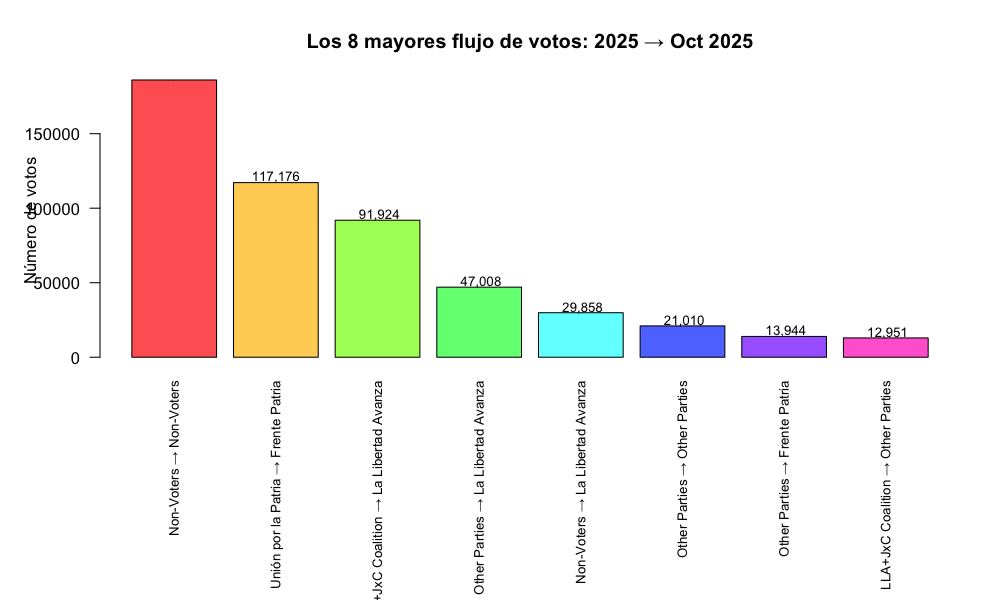
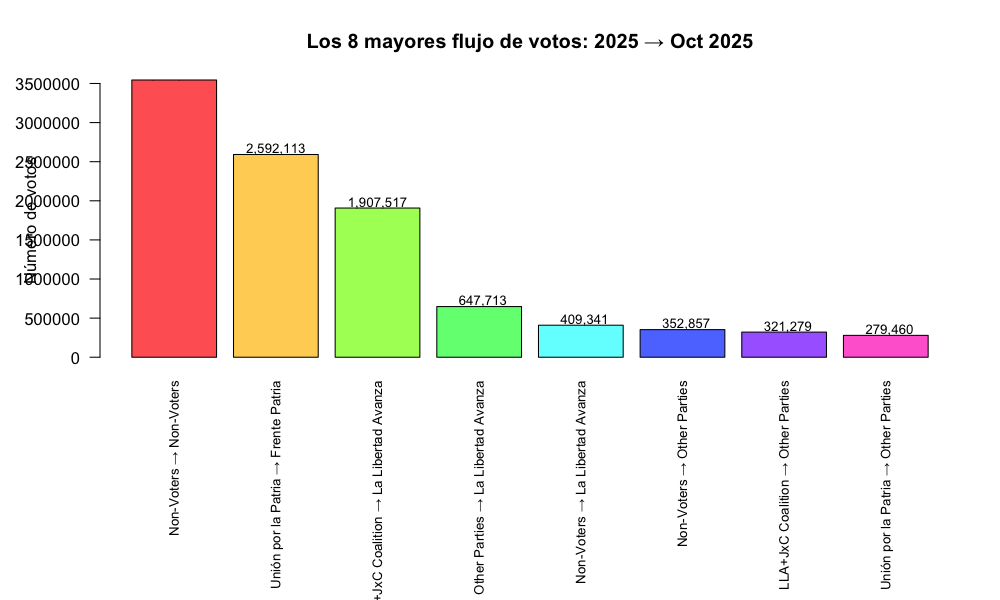
nuevo

diff --git a/vote_transfers_sankey_oct2025.html b/vote_transfers_sankey_oct2025.html
@@ -16,9 +16,9 @@
     <h4 style="color: #7F8C8D; font-family: &#39;Arial&#39;, sans-serif; font-weight: normal;">Estimated Voter Transitions Based on Ecological Inference</h4>
     <p style="color: #95A5A6; font-family: &#39;Arial&#39;, sans-serif; font-size: 12px;">Based on analysis of 5 electoral circuits.  Flow thickness represents number of voters (minimum 1,000 shown).</p>
   </div>
-  <div id="htmlwidget-3c0ee5408616df070d14" style="width:1000px;height:600px;" class="sankeyNetwork html-widget"></div>
+  <div id="htmlwidget-8db29779a9f483359151" style="width:1000px;height:600px;" class="sankeyNetwork html-widget"></div>
 </div>
-<script type="application/json" data-for="htmlwidget-3c0ee5408616df070d14">{"x":{"links":{"source":[0,0,0,0,0,1,1,1,1,2,2,2,2,2,3,3,3,3,3,4,4,4,4,4],"target":[5,6,7,8,9,5,6,7,8,5,6,7,8,9,5,6,7,8,9,5,6,7,8,9],"value":[3197,12727,8104,8590,3486,3902,91924,8450,12951,2091,29858,186023,10084,9920,5425,47008,10893,21010,13944,2979,12284,9040,12810,117176]},"nodes":{"name":["Blank Votes","LLA+JxC Coalition","Non-Voters","Other Parties","Unión por la Patria","Blank Votes","La Libertad Avanza","Non-Voters","Other Parties","Frente Patria"],"group":["Blank Votes","LLA+JxC Coalition","Non-Voters","Other Parties","Unión por la Patria","Blank Votes","La Libertad Avanza","Non-Voters","Other Parties","Frente Patria"]},"options":{"NodeID":"display_name","NodeGroup":"display_name","LinkGroup":null,"colourScale":"d3.scaleOrdinal().range([\"#E8E8E8\",\"#8A2BE2\",\"#808080\",\"#D2B48C\",\"#4169E1\",\"#E8E8E8\",\"#9966CC\",\"#808080\",\"#D2B48C\",\"#FF6347\"])","fontSize":14,"fontFamily":null,"nodeWidth":20,"nodePadding":15,"units":"votes","margin":{"top":50,"right":150,"bottom":50,"left":150},"iterations":100,"sinksRight":true}},"evals":[],"jsHooks":[]}</script>
-<script type="application/htmlwidget-sizing" data-for="htmlwidget-3c0ee5408616df070d14">{"viewer":{"width":1000,"height":600,"padding":10,"fill":false},"browser":{"width":1000,"height":600,"padding":10,"fill":false}}</script>
+<script type="application/json" data-for="htmlwidget-8db29779a9f483359151">{"x":{"links":{"source":[0,0,0,0,0,1,1,1,1,1,2,2,2,2,2,3,3,3,3,3,4,4,4,4,4],"target":[5,6,7,8,9,5,6,7,8,9,5,6,7,8,9,5,6,7,8,9,5,6,7,8,9],"value":[53700,200003,114078,84658,77686,92599,1907517,16996,321279,10214,31527,409341,3544598,352857,241372,85148,647713,195621,249856,165171,33759,261061,103811,279460,2592113]},"nodes":{"name":["Blank Votes","LLA+JxC Coalition","Non-Voters","Other Parties","Unión por la Patria","Blank Votes","La Libertad Avanza","Non-Voters","Other Parties","Frente Patria"],"group":["Blank Votes","LLA+JxC Coalition","Non-Voters","Other Parties","Unión por la Patria","Blank Votes","La Libertad Avanza","Non-Voters","Other Parties","Frente Patria"]},"options":{"NodeID":"display_name","NodeGroup":"display_name","LinkGroup":null,"colourScale":"d3.scaleOrdinal().range([\"#E8E8E8\",\"#8A2BE2\",\"#808080\",\"#D2B48C\",\"#4169E1\",\"#E8E8E8\",\"#9966CC\",\"#808080\",\"#D2B48C\",\"#FF6347\"])","fontSize":14,"fontFamily":null,"nodeWidth":20,"nodePadding":15,"units":"votes","margin":{"top":50,"right":150,"bottom":50,"left":150},"iterations":100,"sinksRight":true}},"evals":[],"jsHooks":[]}</script>
+<script type="application/htmlwidget-sizing" data-for="htmlwidget-8db29779a9f483359151">{"viewer":{"width":1000,"height":600,"padding":10,"fill":false},"browser":{"width":1000,"height":600,"padding":10,"fill":false}}</script>
 </body>
 </html>
